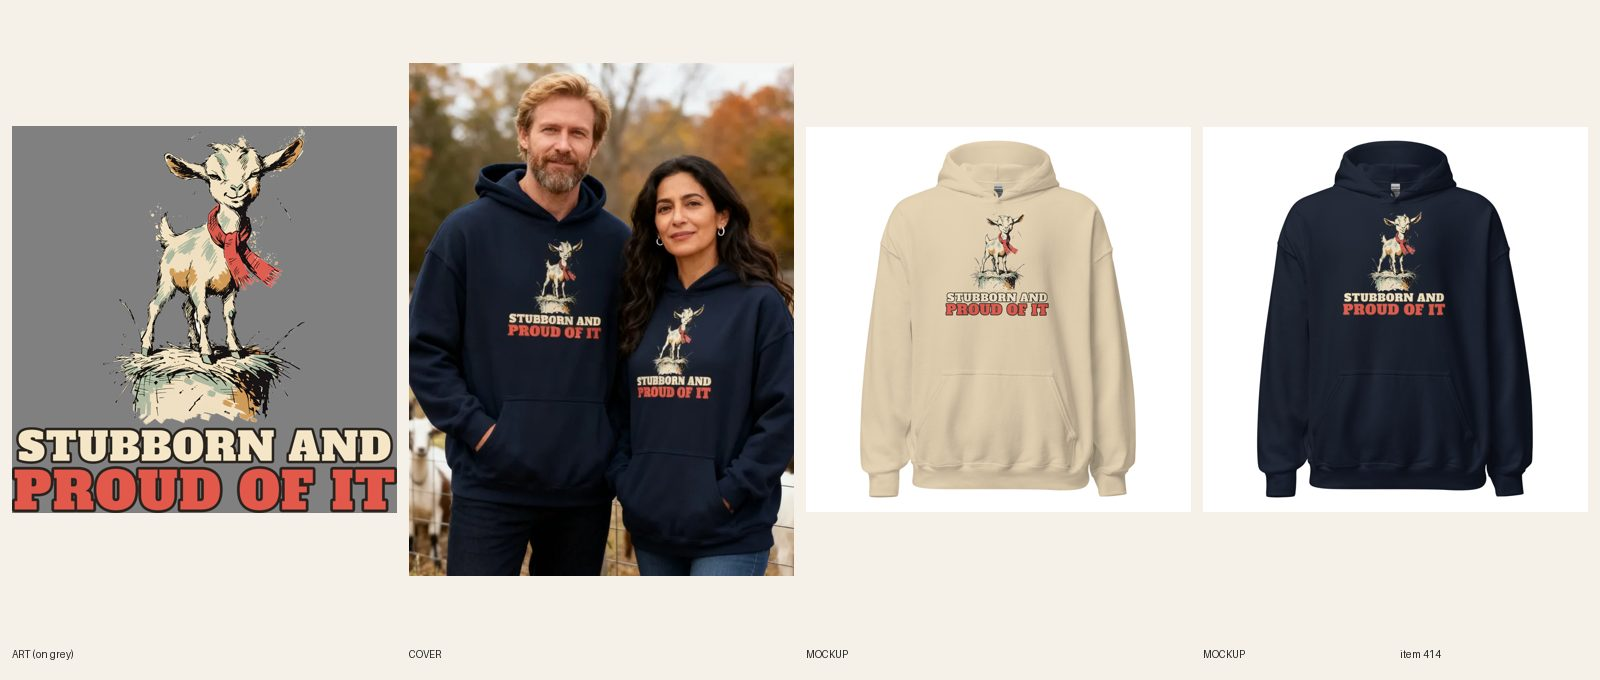
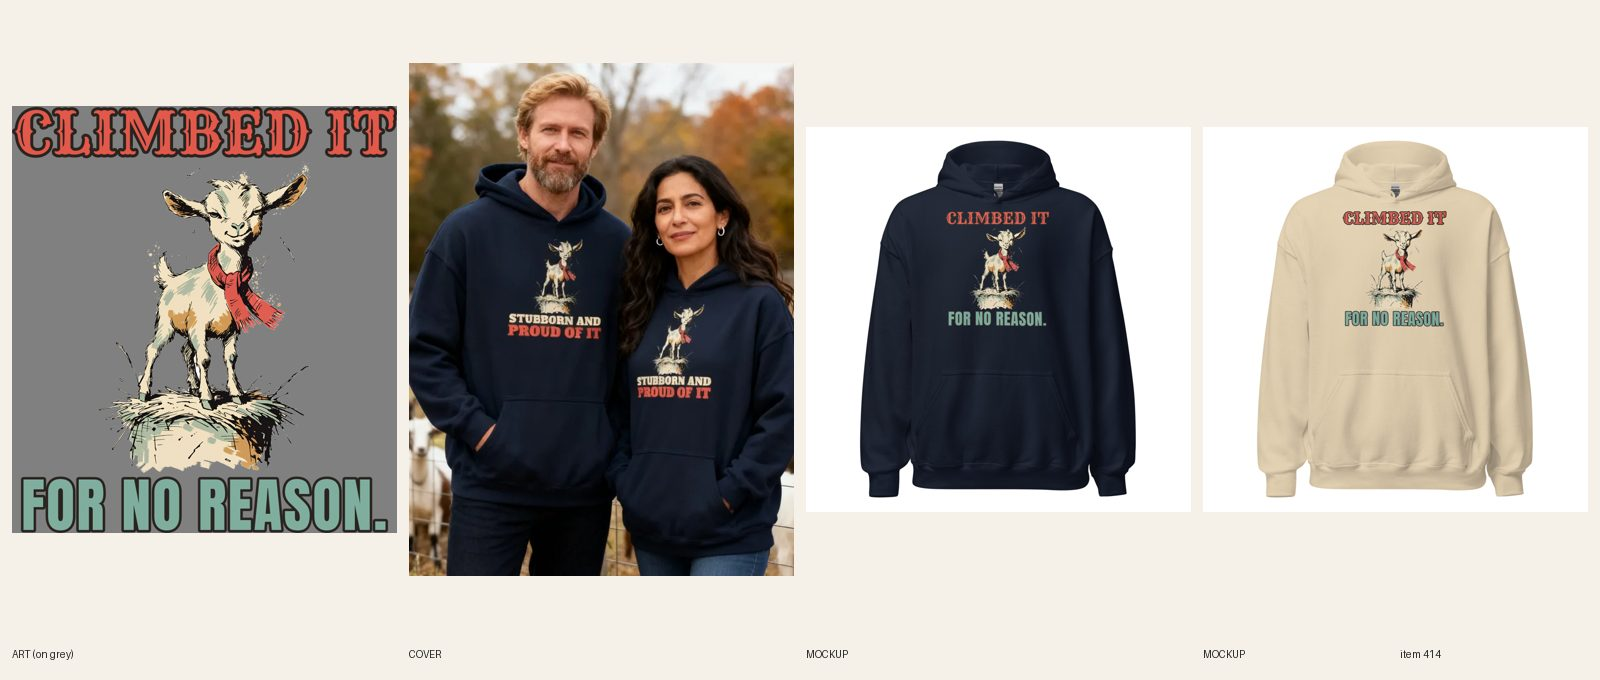
[B] review 414 Climbed It For No Reason goat hoodie (type+line redo)

Changed region(s): [[0.0, 0.1544, 0.25, 0.8029], [0.7812, 0.1853, 0.9688, 0.7412], [0.5312, 0.1853, 0.7188, 0.7412]]

diff --git a/docs/pipeline/414-goat-hoodie-kid-at-heart.md b/docs/pipeline/414-goat-hoodie-kid-at-heart.md
@@ -1,4 +1,4 @@
-status: BUILDING [B] 2026-10-19 21:35 UTC
+status: REVIEW
 lane: B
 type: new
 id: 414
@@ -33,3 +33,4 @@ kd: 23
 - 2026-10-17 20:48 UTC builder [B]: synced 12/12. REVIEW. Sheet docs/review/414.jpg.
 - 2026-10-17 21:19 UTC director: LIVE. sheet seen: smug goat on a hay bale, STUBBORN AND / PROUD OF IT reads on Sand and Navy; unisex couple at a goat fence. Line per the 20:25 rewrite. ACTIVE + Online Store, Headless, Google & YouTube; audit --handle PASS.
 - 2026-10-18 17:22 UTC director: QUALITY RESET grade C (new line + type), REDO. The product stays ACTIVE (same handle, URL, title keyword). 1. Line (R3.12, quality-reset 'Lines'): "STUBBORN AND / PROUD OF IT": Generic stock phrase; nothing goat-specific or surprising. Write 5 candidates, keep the one a stranger laughs at in 3 seconds without backstory; kill lines that only describe the picture; if none of the 5 is funny, PARK it. 2. Quality reset type bar (docs/backlog/quality-reset.md, 'The new bar'): headline at least 90% of the art width, heavy, colors pulled from the art; second line at least 45% of the headline's height, never a thin script on a dark or mid garment; use the lettering as a shape (arch, stacked lockup, words breaking into the art), not a plain bar above and a script line below; no font used on more than 1 in 6 of the last 30 designs. 3. Keep the art if it carries the new line, else one new illustration (R4/R5). New print means a new cover per R6.10, copy line one rewritten for the new joke (R8.3), and a fresh review sheet (R7.7). While quality-reset.md says PAUSED, only lane A builds, and only the samples step 2 names.
+- 2026-10-19 21:40 UTC builder [B]: REDO 414 (C grade) done on the existing product (stays ACTIVE, handle unchanged). 5 candidates: "Climbed It For No Reason."; "Not My First Fence."; "Summit Reached. Nobody Asked."; "King of the Hay (Self-Appointed)"; "Stubborn and Proud of It" (old, generic). Kept CLIMBED IT / FOR NO REASON. (goats climb, the smug face sells the shrug; no backstory needed). Same smug-goat art (white gaps knocked out). designs/b414/spec.json: CLIMBED IT in Rye faded red #e2584a (full print width) above, FOR NO REASON. in Anton sage #7fae9f below (second line 74% of headline height... both with dark #2a2420 outline); no cream fill so no light file needed (R5.3.8 n/a; dark keyline on Navy and Sand read at 400 px). Printful file 1089917045 (3414x3782), FW 1500 TOP 0, 12/12 resynced with back logo 1080398177. Sand and Navy fronts replaced in place via fileUpdate (back unchanged), alts updated. Shopify: title now "Unisex Goat – Climbed It For No Reason Hoodie", SEO, copy (line one opens on the print's words + who + when, no superlative), FAQs 5 x 40-60 words incl. Dec 8, ink named from the mockups (red, sage, dark outline). Cover: AI cover still shows the old print, handle added to retired-covers.json, plain product shot until fal top-up. audit --handle PASS 0 warn; astro build OK; variant-photo audit clean. fal $0. Sheet docs/review/414.jpg.

diff --git a/docs/intake-log.md b/docs/intake-log.md
@@ -1,5 +1,4 @@
 RUNNING lane A since 2026-10-19 21:29 UTC
-RUNNING lane B since 2026-10-19 21:28 UTC
 RUNNING lane E since 2026-10-19 21:14 UTC
 2026-10-19 21:30 UTC — [E] Builder run: redid #579 Men's Grandpa Ask Your Grandmother tee (type only: Bowlby One cream + Bevan mustard full art width, same art, FW 1650 TOP 75, file 1089909197, 28/28 resynced, 4 fronts replaced in place, copy updated, plain product shot). REVIEW. fal $0.
 2026-10-19 21:23 UTC — [E] Builder run: redid #558 Women's Cat Not My Turn zip hoodie (type only: Bowlby One orange + Anton pink full art width, same art, back BW 1650, file 1089900083, 12/12 resynced, 4 mockups replaced in place, copy updated, plain product shot). REVIEW. fal $0.
@@ -1331,4 +1330,8 @@ for the record, but treat this one as current for these 3 products.
 2026-10-18 07:03 UTC — [B] Run summary: REVIEW #467 #473 #585 (syncs re-run) and #542 cover REDO. Remaining lane B cold-weather READY: #385 half zip (needs hand re-letter, skipped). Lock released.
 2026-10-18 10:25 UTC — [E] Lock released. REDOs 555 559 577 534 536 are in REVIEW (all synced and verified). READY 608-613, 628-633 not started: fal daily cap reached ($15.98/16), new art impossible until 00:00 UTC.
 
+<<<<<<< HEAD
 2026-10-19 21:29 UTC — [C] Builder run: redid #501 Women's Do Not Sell My Books hoodie (type only, port of #481: Fraunces Black one-line headline 97% width + bold AT MY FUNERAL., same art, FW 1700 TOP 0, file 1089909739, 12/12 relinked, 2 fronts replaced in place, copy updated, plain product shot). REVIEW. fal $0. Lock released.
+=======
+2026-10-19 21:41 UTC — [B] Builder run: redid #414 Unisex Goat hoodie (C grade, new line: CLIMBED IT / FOR NO REASON., Rye + Anton, same art, FW 1500 TOP 0, file 1089917045, 12/12 resynced, 2 fronts replaced in place, title/SEO/copy updated, plain product shot). REVIEW. fal $0. Lock released.
+>>>>>>> e43b237 ([B] review 414 Climbed It For No Reason goat hoodie (type+line redo))
